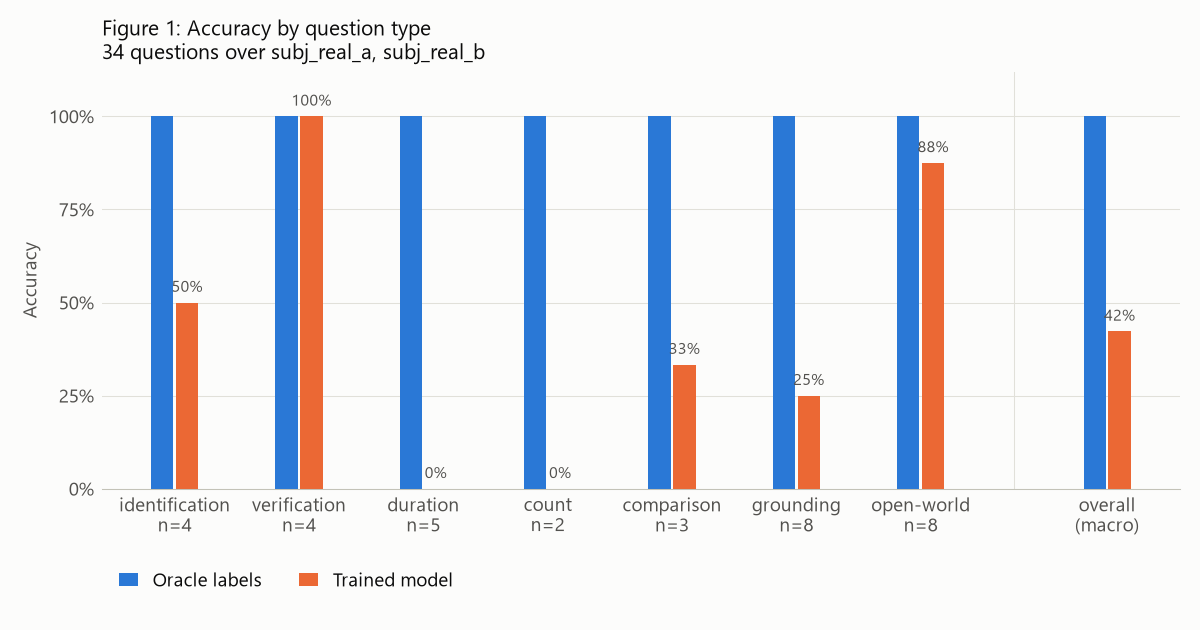
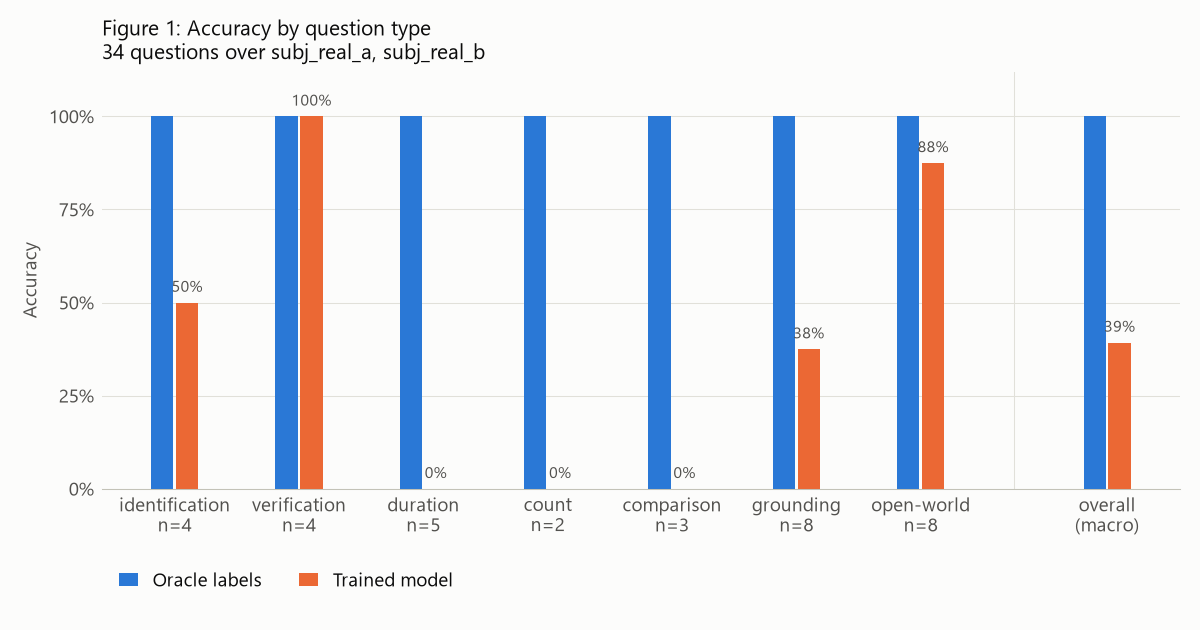
Re-measure Phase 3 with the retrained weights and corrected units
On Member A's regenerated real-model tracks: 15/34 questions right (oracle
34/34), all 19 losses attributed to recognition, none to routing or
reasoning. Figure 1 macro 0.3929 (was 0.42), Figure 3 IoU@0.5 acceptance
0.41 (was 0.35), no duration within 10%. Window accuracy on labelled time
fell to 0.350 and 0.492 (from 0.503 and 0.673); cause not established.
Both subjects are in the training split, so the numbers stay draft.

Changed region(s): [[0.555, 0.5429, 0.5858, 0.7841], [0.6475, 0.5127, 0.7092, 0.6333], [0.925, 0.4825, 0.9558, 0.5429]]

diff --git a/docs/TASKS.md b/docs/TASKS.md
@@ -225,7 +225,7 @@ Four frozen schemas · both CLI signatures · the `evaluate()` signature · work
 ### Exit criteria
 
 - [x] `python -m ats.answer` on a dev recording with the real model produces **100% schema-valid** answers — measured 2026-09-11 on both real subjects' real-model tracks (`tests/fixtures/real_model_tracks/`): 17/17 and 17/17 answers schema-valid, 0 withheld by the validator.
-- [x] `scripts/oracle_delta.py` emits a per-question-type table attributing every loss to a layer — measured 2026-09-11 on 34 questions over two real subjects (`data/questions_dev_v2/`); `results/oracle_delta.md` (labelled time only, the default) and `results/oracle_delta_all_windows.md` (every recorded window) give identical per-type numbers:
+- [x] `scripts/oracle_delta.py` emits a per-question-type table attributing every loss to a layer — re-measured 2026-09-11 with the retrained weights and corrected accelerometer units (both real-model tracks regenerated by Member A) on 34 questions over two real subjects (`data/questions_dev_v2/`); `results/oracle_delta.md` (labelled time only, the default) and `results/oracle_delta_all_windows.md` (every recorded window) give identical per-type numbers:
 
   | Question type | n | Right (oracle) | Right (real) | Lost: recognition (A) | Lost: routing (B) | Lost: reasoning (B) |
   |---|---|---|---|---|---|---|
@@ -233,17 +233,17 @@ Four frozen schemas · both CLI signatures · the `evaluate()` signature · work
   | verification | 4 | 4 | 4 | 0 | 0 | 0 |
   | duration | 5 | 5 | 0 | 5 | 0 | 0 |
   | count | 2 | 2 | 0 | 2 | 0 | 0 |
-  | comparison | 3 | 3 | 1 | 2 | 0 | 0 |
-  | grounding | 8 | 8 | 2 | 6 | 0 | 0 |
+  | comparison | 3 | 3 | 0 | 3 | 0 | 0 |
+  | grounding | 8 | 8 | 3 | 5 | 0 | 0 |
   | open_world | 8 | 8 | 6 | 2 | 0 | 0 |
   | **overall** | **34** | **34** | **15** | **19** | **0** | **0** |
 
-  No masked bugs, and nothing withheld on either track.
+  No masked bugs, and nothing withheld on either track. Against the first measurement (old weights, pre-fix units) the total is unchanged at 15/34, but the mix moved: comparison 1 → 0, grounding 2 → 3.
 - [ ] Delta table committed to `results/` and reviewed by both members — committed and reviewed by Member B; **Member A still to review**.
 - [ ] Both members have a written, ordered fix list — the table's fix lists are in `results/oracle_delta.md`: 19 recognition items for Member A, still to be put in priority order, and none for Member B. Member B's open items come from elsewhere: the five rule-router gaps found in the Phase 4 ablation, and whether onset questions should cite only the onset minute.
 
 > **Read these numbers with four caveats.**
-> 1. **Both subjects are in the training split** (`splits/subject_splits.json`), so this is the model on people it was trained on, and held-out subjects will do worse. Even so, window-level accuracy on labelled time is only 0.503 (subj_real_a) and 0.673 (subj_real_b), with 47% and 32% of true sitting windows predicted as lying. Repeat on validation-split subjects before any of this is reported as performance.
+> 1. **Both subjects are in the training split** (`splits/subject_splits.json`), so this is the model on people it was trained on, and held-out subjects will do worse. Even so, window-level accuracy on labelled time is only 0.350 (subj_real_a) and 0.492 (subj_real_b), with 33% and 77% of true sitting windows predicted as lying. Both fell after the retrain (from 0.503 and 0.673 with the old weights), even though the question-level total held at 15/34 and held-out macro-F1 rose (0.2749 → 0.2893, Member A). Why the retrain does worse on these two training subjects is not established. Repeat on validation-split subjects before any of this is reported as performance.
 > 2. **Compared over labelled time by default.** The oracle skips recorded minutes nobody labelled (4,232 real-model windows across the two subjects). A prediction there has no truth to be judged against, so the delta sets it aside rather than charge it to recognition; `--include-unlabelled` scores every recorded window instead.
 > 3. **The oracle is right by construction.** `scripts/make_real_dev_questions.py` derives each gold bout from the ground-truth labels with an implementation of the §0 rules that is independent of `ats/aggregate.py`, and refuses to write unless the two agree exactly (they do, on both subjects). That checks the aggregation on real data, but it also means this table cannot surface an aggregation error: every oracle-vs-real difference is recognition's by design.
 > 4. **The bout counts in `docs/phase3_handoff.md` predate the drift fix** (§0, interval semantics). Bridging sub-minute timing drift took subj_real_b from 3,151 bouts to 325 and its longest lying stretch from 624 s to 20,904 s; the gold in `data/questions_dev_v2/` uses the corrected semantics. The data-gap question now sits only in stretches with no recorded windows at all, after a first draft for subj_real_b landed in a stretch that was recorded but unlabelled.
@@ -316,7 +316,7 @@ Four frozen schemas · both CLI signatures · the `evaluate()` signature · work
 - **5B.2** Pareto/non-dominated-set helper in `ats/eval/`, consumed by A's figure script.
   > **Done 2026-09-11:** `ats.eval.pareto.pareto_frontier(points, cost, value)` returns the non-dominated configurations sorted by rising cost (lower cost and higher value are better); tested against a hand-worked fixture in `tests/test_curves.py`.
 - **5B.3** Produce **Figure 1** (accuracy by question type) and **Figure 3** (accuracy vs strictness) from the `full` config.
-  > **Scripts done, numbers still draft (2026-09-11).** `scripts/make_fig1.py` and `scripts/make_fig3.py` answer every question set against the oracle and real-model tracks and write each figure with a CSV (the table view) and a caption file; Figure 1's caption states each group's correctness rule, as PRD §7.4.1 requires. The data is computed in `ats/eval/curves.py` and tested separately from the plotting. The palette (reference slots 1 and 2) passes the dataviz validator for light mode. Current values on the two real subjects: trained model 42% overall (macro) against 100% from oracle labels; 35% of cited intervals accepted at the pre-registered IoU of 0.5; no duration within 10%. **Do not put these numbers in the report yet:** both subjects are in the training split, and the accelerometer units issue (see 4B.3) is unresolved. Re-run both scripts once the validation-split subjects and the units fix land.
+  > **Scripts done, numbers still draft (2026-09-11).** `scripts/make_fig1.py` and `scripts/make_fig3.py` answer every question set against the oracle and real-model tracks and write each figure with a CSV (the table view) and a caption file; Figure 1's caption states each group's correctness rule, as PRD §7.4.1 requires. The data is computed in `ats/eval/curves.py` and tested separately from the plotting. The palette (reference slots 1 and 2) passes the dataviz validator for light mode. Current values on the two real subjects, re-measured 2026-09-11 with the retrained weights and corrected units: trained model 39% overall (macro, 0.3929) against 100% from oracle labels; 41% of cited intervals accepted at the pre-registered IoU of 0.5; no duration within 10%. (First measurement, old weights: 42%, 35%, none.) **Do not put these numbers in the report yet:** both subjects are in the training split. The units fix has landed; re-run both scripts once validation-split subjects are added.
 
 ### Exit criteria
 

diff --git a/results/oracle_delta_all_windows.md b/results/oracle_delta_all_windows.md
@@ -14,8 +14,8 @@
 | verification | 4 | 4 | 4 | 0 | 0 | 0 | 0 |
 | duration | 5 | 5 | 0 | 5 | 0 | 0 | 0 |
 | count | 2 | 2 | 0 | 2 | 0 | 0 | 0 |
-| comparison | 3 | 3 | 1 | 2 | 0 | 0 | 0 |
-| grounding | 8 | 8 | 2 | 6 | 0 | 0 | 0 |
+| comparison | 3 | 3 | 0 | 3 | 0 | 0 | 0 |
+| grounding | 8 | 8 | 3 | 5 | 0 | 0 | 0 |
 | open_world | 8 | 8 | 6 | 2 | 0 | 0 | 0 |
 | **overall** | 34 | 34 | 15 | 19 | 0 | 0 | 0 |
 
@@ -24,24 +24,24 @@ Answers withheld by the grounding validator: 0 on the oracle track, 0 on the rea
 ## Fix list - Member A (recognition)
 
 - `subj_real_a_t1_id0` (identification, operator `identify`, recognition): gold "Sitting"; oracle "Sitting"; real "Lying down"
-- `subj_real_a_t1_id1` (identification, operator `identify`, recognition): gold "Walking"; oracle "Walking"; real "Lying down"
-- `subj_real_a_t2_dur0` (duration, operator `duration`, recognition): gold "66386 seconds"; oracle "66386 seconds"; real "26148 seconds"
-- `subj_real_a_t2_dur1` (duration, operator `duration`, recognition): gold "109 seconds"; oracle "109 seconds"; real "7085 seconds"
-- `subj_real_a_t2_dur_absent` (duration, operator `duration`, recognition): gold "0 seconds"; oracle "0 seconds"; real "4979 seconds"
-- `subj_real_a_t2_count0` (count, operator `count`, recognition): gold "15"; oracle "15 separate bouts"; real "73 separate bouts"
+- `subj_real_a_t1_id1` (identification, operator `identify`, recognition): gold "Walking"; oracle "Walking"; real "Sitting"
+- `subj_real_a_t2_dur0` (duration, operator `duration`, recognition): gold "66386 seconds"; oracle "66386 seconds"; real "29696 seconds"
+- `subj_real_a_t2_dur1` (duration, operator `duration`, recognition): gold "109 seconds"; oracle "109 seconds"; real "42267 seconds"
+- `subj_real_a_t2_dur_absent` (duration, operator `duration`, recognition): gold "0 seconds"; oracle "0 seconds"; real "4859 seconds"
+- `subj_real_a_t2_count0` (count, operator `count`, recognition): gold "15"; oracle "15 separate bouts"; real "57 separate bouts"
 - `subj_real_a_t2_cmp0` (comparison, operator `compare`, recognition): gold "Sitting"; oracle "Sitting"; real "Lying down"
 - `subj_real_a_t3_ground0` (grounding, operator `ground`, recognition): gold "Standing in place"; oracle "Standing in place"; real "Standing in place"
 - `subj_real_a_t3_ground2` (grounding, operator `ground`, recognition): gold "Standing and moving"; oracle "Standing and moving"; real "Standing and moving"
 - `subj_real_a_t3_onset` (grounding, operator `onset`, recognition): gold "Yes, walking began at 9356 seconds"; oracle "Yes, walking began at 9356 seconds"; real "Yes, walking began at 1411 seconds"
 - `subj_real_a_t4_rest` (open_world, operator `open_world`, recognition): gold "Likely yes"; oracle "Likely yes"; real "Likely yes"
 - `subj_real_a_t4_wheeled` (open_world, operator `open_world`, recognition): gold "No"; oracle "No"; real "Yes"
-- `subj_real_b_t2_dur0` (duration, operator `duration`, recognition): gold "167675 seconds"; oracle "167675 seconds"; real "70726 seconds"
-- `subj_real_b_t2_dur1` (duration, operator `duration`, recognition): gold "1084 seconds"; oracle "1084 seconds"; real "11722 seconds"
-- `subj_real_b_t2_count0` (count, operator `count`, recognition): gold "5"; oracle "5 separate bouts"; real "103 separate bouts"
+- `subj_real_b_t2_dur0` (duration, operator `duration`, recognition): gold "167675 seconds"; oracle "167675 seconds"; real "22147 seconds"
+- `subj_real_b_t2_dur1` (duration, operator `duration`, recognition): gold "1084 seconds"; oracle "1084 seconds"; real "14568 seconds"
+- `subj_real_b_t2_count0` (count, operator `count`, recognition): gold "5"; oracle "5 separate bouts"; real "48 separate bouts"
+- `subj_real_b_t2_cmp0` (comparison, operator `compare`, recognition): gold "Running"; oracle "Running"; real "Walking"
 - `subj_real_b_t2_cmp1` (comparison, operator `compare`, recognition): gold "Sitting"; oracle "Sitting"; real "Lying down"
 - `subj_real_b_t3_ground1` (grounding, operator `ground`, recognition): gold "Walking"; oracle "Walking"; real "Walking"
 - `subj_real_b_t3_ground2` (grounding, operator `ground`, recognition): gold "Standing in place"; oracle "Standing in place"; real "Standing in place"
-- `subj_real_b_t3_onset` (grounding, operator `onset`, recognition): gold "Yes, bicycling began at 2866 seconds"; oracle "Yes, bicycling began at 2866 seconds"; real "Yes, bicycling began at 2785 seconds"
 
 ## Fix list - Member B (routing and reasoning)
 

diff --git a/results/oracle_delta.md b/results/oracle_delta.md
@@ -14,8 +14,8 @@
 | verification | 4 | 4 | 4 | 0 | 0 | 0 | 0 |
 | duration | 5 | 5 | 0 | 5 | 0 | 0 | 0 |
 | count | 2 | 2 | 0 | 2 | 0 | 0 | 0 |
-| comparison | 3 | 3 | 1 | 2 | 0 | 0 | 0 |
-| grounding | 8 | 8 | 2 | 6 | 0 | 0 | 0 |
+| comparison | 3 | 3 | 0 | 3 | 0 | 0 | 0 |
+| grounding | 8 | 8 | 3 | 5 | 0 | 0 | 0 |
 | open_world | 8 | 8 | 6 | 2 | 0 | 0 | 0 |
 | **overall** | 34 | 34 | 15 | 19 | 0 | 0 | 0 |
 
@@ -24,24 +24,24 @@ Answers withheld by the grounding validator: 0 on the oracle track, 0 on the rea
 ## Fix list - Member A (recognition)
 
 - `subj_real_a_t1_id0` (identification, operator `identify`, recognition): gold "Sitting"; oracle "Sitting"; real "Lying down"
-- `subj_real_a_t1_id1` (identification, operator `identify`, recognition): gold "Walking"; oracle "Walking"; real "Lying down"
-- `subj_real_a_t2_dur0` (duration, operator `duration`, recognition): gold "66386 seconds"; oracle "66386 seconds"; real "26027 seconds"
-- `subj_real_a_t2_dur1` (duration, operator `duration`, recognition): gold "109 seconds"; oracle "109 seconds"; real "6926 seconds"
-- `subj_real_a_t2_dur_absent` (duration, operator `duration`, recognition): gold "0 seconds"; oracle "0 seconds"; real "4979 seconds"
-- `subj_real_a_t2_count0` (count, operator `count`, recognition): gold "15"; oracle "15 separate bouts"; real "60 separate bouts"
+- `subj_real_a_t1_id1` (identification, operator `identify`, recognition): gold "Walking"; oracle "Walking"; real "Sitting"
+- `subj_real_a_t2_dur0` (duration, operator `duration`, recognition): gold "66386 seconds"; oracle "66386 seconds"; real "29215 seconds"
+- `subj_real_a_t2_dur1` (duration, operator `duration`, recognition): gold "109 seconds"; oracle "109 seconds"; real "39915 seconds"
+- `subj_real_a_t2_dur_absent` (duration, operator `duration`, recognition): gold "0 seconds"; oracle "0 seconds"; real "4739 seconds"
+- `subj_real_a_t2_count0` (count, operator `count`, recognition): gold "15"; oracle "15 separate bouts"; real "46 separate bouts"
 - `subj_real_a_t2_cmp0` (comparison, operator `compare`, recognition): gold "Sitting"; oracle "Sitting"; real "Lying down"
 - `subj_real_a_t3_ground0` (grounding, operator `ground`, recognition): gold "Standing in place"; oracle "Standing in place"; real "Standing in place"
 - `subj_real_a_t3_ground2` (grounding, operator `ground`, recognition): gold "Standing and moving"; oracle "Standing and moving"; real "Standing and moving"
 - `subj_real_a_t3_onset` (grounding, operator `onset`, recognition): gold "Yes, walking began at 9356 seconds"; oracle "Yes, walking began at 9356 seconds"; real "Yes, walking began at 1411 seconds"
 - `subj_real_a_t4_rest` (open_world, operator `open_world`, recognition): gold "Likely yes"; oracle "Likely yes"; real "Likely yes"
 - `subj_real_a_t4_wheeled` (open_world, operator `open_world`, recognition): gold "No"; oracle "No"; real "Yes"
-- `subj_real_b_t2_dur0` (duration, operator `duration`, recognition): gold "167675 seconds"; oracle "167675 seconds"; real "64081 seconds"
-- `subj_real_b_t2_dur1` (duration, operator `duration`, recognition): gold "1084 seconds"; oracle "1084 seconds"; real "10155 seconds"
-- `subj_real_b_t2_count0` (count, operator `count`, recognition): gold "5"; oracle "5 separate bouts"; real "86 separate bouts"
+- `subj_real_b_t2_dur0` (duration, operator `duration`, recognition): gold "167675 seconds"; oracle "167675 seconds"; real "15825 seconds"
+- `subj_real_b_t2_dur1` (duration, operator `duration`, recognition): gold "1084 seconds"; oracle "1084 seconds"; real "12629 seconds"
+- `subj_real_b_t2_count0` (count, operator `count`, recognition): gold "5"; oracle "5 separate bouts"; real "42 separate bouts"
+- `subj_real_b_t2_cmp0` (comparison, operator `compare`, recognition): gold "Running"; oracle "Running"; real "Walking"
 - `subj_real_b_t2_cmp1` (comparison, operator `compare`, recognition): gold "Sitting"; oracle "Sitting"; real "Lying down"
 - `subj_real_b_t3_ground1` (grounding, operator `ground`, recognition): gold "Walking"; oracle "Walking"; real "Walking"
 - `subj_real_b_t3_ground2` (grounding, operator `ground`, recognition): gold "Standing in place"; oracle "Standing in place"; real "Standing in place"
-- `subj_real_b_t3_onset` (grounding, operator `onset`, recognition): gold "Yes, bicycling began at 2866 seconds"; oracle "Yes, bicycling began at 2866 seconds"; real "Yes, bicycling began at 2785 seconds"
 
 ## Fix list - Member B (routing and reasoning)
 

diff --git a/results/fig3_accuracy_vs_strictness.md b/results/fig3_accuracy_vs_strictness.md
@@ -1,3 +1,3 @@
-**Figure 3: Accuracy versus strictness.** Left: of the 17 answers whose gold cites intervals, the fraction whose cited intervals reach each IoU threshold (matched mean IoU, PRD 7.3.3). Right: of the 5 duration answers, the fraction within each relative tolerance of the true total; the pre-registered rule also has a 4 s floor, left out of this sweep so the curve shows relative error alone. Oracle labels (blue) against the trained model (orange), both through the same reasoning layer, over subj_real_a, subj_real_b. At the pre-registered IoU of 0.5: oracle labels 100%, trained model 35%. A curve that stays high as the threshold tightens means misses are near misses; one that drops early means they are wild.
+**Figure 3: Accuracy versus strictness.** Left: of the 17 answers whose gold cites intervals, the fraction whose cited intervals reach each IoU threshold (matched mean IoU, PRD 7.3.3). Right: of the 5 duration answers, the fraction within each relative tolerance of the true total; the pre-registered rule also has a 4 s floor, left out of this sweep so the curve shows relative error alone. Oracle labels (blue) against the trained model (orange), both through the same reasoning layer, over subj_real_a, subj_real_b. At the pre-registered IoU of 0.5: oracle labels 100%, trained model 41%. A curve that stays high as the threshold tightens means misses are near misses; one that drops early means they are wild.
 
 Produced by `scripts/make_fig3.py`; numbers in `results/fig3_accuracy_vs_strictness.csv`.
